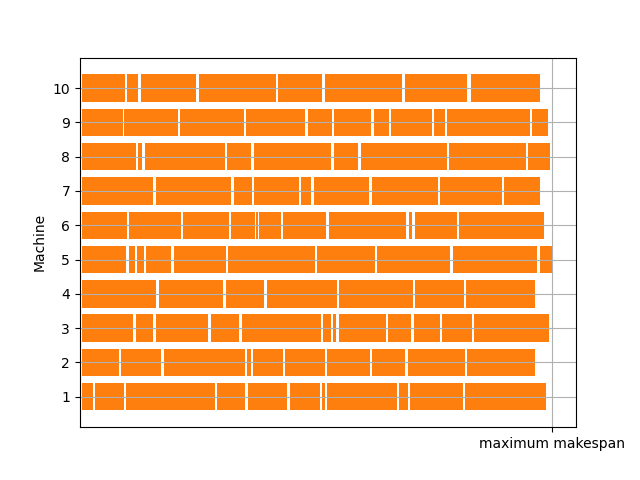
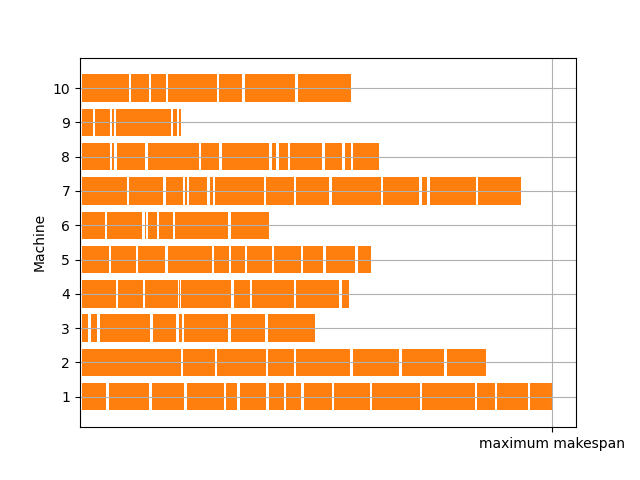
experimenting with LPT rule

diff --git a/simann/random_exp.py b/simann/random_exp.py
@@ -1,0 +1,26 @@
+from simann import SimulatedAnnealing
+from experiment import Experiment
+from p_functions import *
+
+# problem defenition
+m = 10 # number of machines
+jobs_file = "../ptimes.txt" # file that contains the jobs
+jobs_file_small = "../ptimes_small.txt"
+instance100 = SimulatedAnnealing.fromFile(jobs_file, 100)
+instance = SimulatedAnnealing.fromFile(jobs_file, m)
+instance_small = SimulatedAnnealing.fromFile(jobs_file_small, 12)
+
+# output filename
+output_prefix = "./experiments/random_exp"
+
+# run experiments and save their result plots to file
+
+exp1 = instance100.start(1, localSearch, 1, 8e10, 4e12)
+exp1.plotSchedule(instance100, file_name="./experiments/random_exp1_schedule.png")
+
+#exp2 = instance.start(1000000, localSearch, 1, 8e10, 4e12)
+#exp2.plotResults("{}2.png".format(output_prefix))
+
+exp3 = instance_small.start(1, localSearch, 1, 8e10, 4e12)
+exp3.plotSchedule(instance_small, file_name="./experiments/random_exp3_schedule.png")
+
